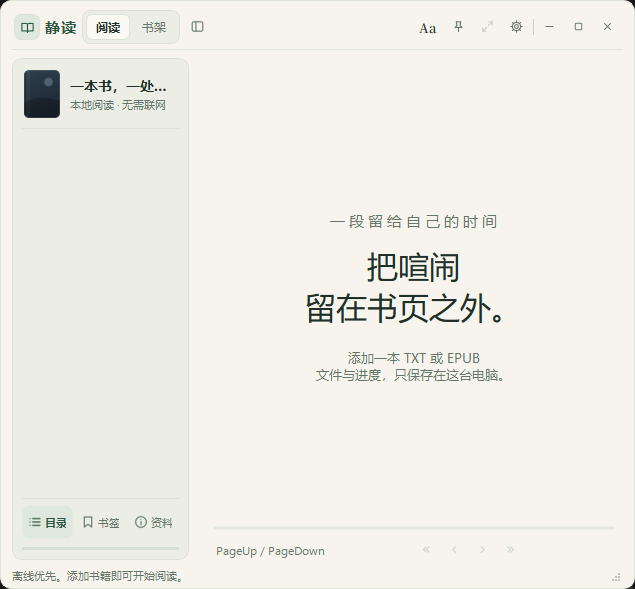
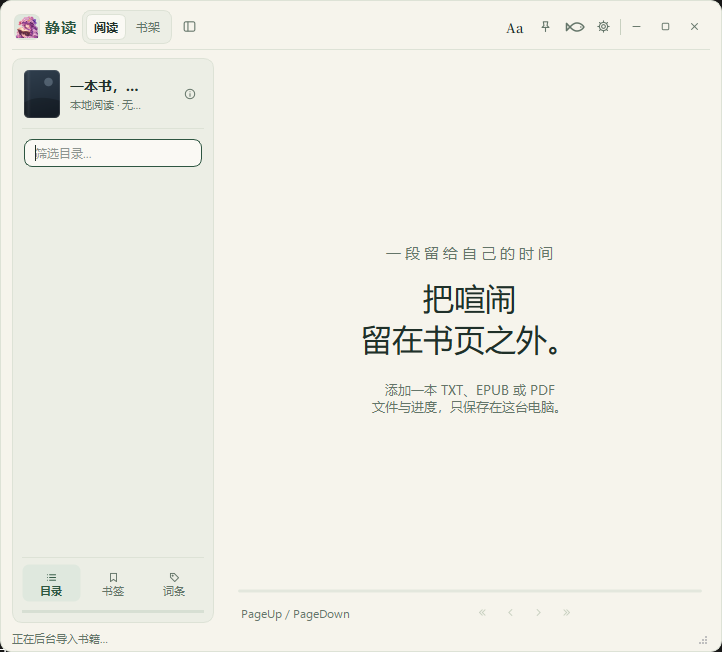
docs(readme): 更新功能截图与使用说明
为准备新版本发布，更新阅读页和专注浮层截图，并新增词条标注、全书搜索与摸鱼模式截图。同步修订中英文 README 的功能说明、使用步骤和 F8/F11/F7 快捷键表。截图统一放在 docs/screenshots，pending 源图保持不变。

diff --git a/README.en.md b/README.en.md
@@ -4,7 +4,7 @@
 
 <p align="center"><img src="src/quietreader/assets/quietreader.png" alt="QuietReader icon" width="128"></p>
 
-QuietReader is an offline-first desktop reader for Windows, built with Python and PySide6. It reads local TXT, EPUB, and PDF books and includes a bookshelf, navigation, bookmarks, live layout controls, and a distraction-free Focus mode. Books and reading progress stay on your computer.
+QuietReader is an offline-first desktop reader for Windows, built with Python and PySide6. It reads local TXT, EPUB, and PDF books and includes a bookshelf, navigation, bookmarks, term notes, book-wide search, live layout controls, Focus mode, and Moyu mode. Books and reading progress stay on your computer.
 
 ## Screenshots
 
@@ -18,6 +18,18 @@ Press `Ctrl+O` to choose a local TXT, EPUB, or PDF file, or drag a file into the
 
 Use the sidebar to switch between contents, bookmarks, and book info. Click the sidebar button in the top bar to collapse it. The progress bar at the bottom lets you seek within the current chapter. Whole-book progress appears to the right of the page controls. Reopening a book restores your last reading position.
 
+### Term notes
+
+![The term “电车” is marked in the text with its note visible, and the book’s terms are listed in the sidebar](docs/screenshots/term-notes.png)
+
+Select a word in the text, right-click, and choose **Add term note** to enter a note. You can also open **Terms** in the sidebar and click **Add**. Matching terms are marked in the text; hover over a marked term to read its note. Use the list to filter, edit, or delete notes. Double-click a term to search for it in the book, or import terms from another book.
+
+### Search within a book
+
+![The sidebar search panel showing snippets for “电车” and the current match position](docs/screenshots/book-search.png)
+
+Open **Search** in the sidebar and enter a keyword to search the whole book. Results include surrounding text. Use the arrows beside the search field or press `Enter` / `Shift+Enter` to move between matches. Click a result snippet to jump to it in the text; the active match is highlighted.
+
 ### Focus mode
 
 | Blend with the background | Hold `Alt` to adjust the window |
@@ -26,9 +38,15 @@ Use the sidebar to switch between contents, bookmarks, and book info. Click the 
 
 Use the desktop color picker under **Configuration → Focus & window** to sample a background color. You can also set the background opacity and text color there. Press `F10` to enter Focus mode and hide the reader controls. Hold the default adjustment key, `Alt`, to drag the window or resize it from an edge. Release the key to hide the outline, or press `Esc` to return to the regular reading view.
 
-![The Focus popover showing automatic edge-color sampling, trigger options, and opacity controls](docs/screenshots/focus-popover-auto-background.png)
+![The Focus popover showing automatic sampling, trigger options, an opacity cap, and the Moyu mode button](docs/screenshots/focus-popover-auto-background.png)
 
-The Focus popover can automatically sample the color around the window and shows the sampled color and trigger mode. For complex backgrounds, set an opacity cap. Slider values update during dragging, while the reading page updates once after release.
+The Focus popover can automatically sample the color around the window and shows the sampled color and trigger mode. Use **Desktop color picker** to select a color from the screen, or press `F8` to sample again immediately. Automatic sampling can run when entering Focus mode or moving the window, or only when triggered by its shortcut. For complex backgrounds, set an opacity cap. Slider values update during dragging, while the reading page updates once after release.
+
+### Moyu mode
+
+![Moyu mode reduces the book text to a one-line reading strip near the bottom of the screen](docs/screenshots/moyu-mode.png)
+
+Open a book, click the fish icon in the reading toolbar, then choose **Enter Moyu mode** in the popover. You can also toggle it with the default `F11` shortcut. Moyu mode reduces the text to a one-line strip that appears when the pointer approaches and hides after it leaves. Scroll, or press `PageDown` / `PageUp`, to move sentence by sentence. Hold the window adjustment key (default `Alt`) and drag the strip to place it near an IDE status bar. Press `F7` to switch between one and two lines. Right-click the strip to open a menu for moving to the previous or next sentence, switching line count, or exiting. Press `F11` again to exit. These shortcuts can be changed under **Configuration → Shortcuts**.
 
 ### Bookshelf
 
@@ -81,11 +99,12 @@ Click a binding to record a new shortcut. With global shortcuts enabled, you can
 - **EPUB reading** for common EPUB 2/3 reflowable books, including navigation, internal links, page lists, covers, metadata, text formatting, and embedded illustrations.
 - **PDF reading** that reflows extractable text and renders pages without extractable text as images for scanned PDFs.
 - **Local bookshelf** with recent books, all books, and custom categories. Adding a book copies it into the QuietReader library; moving it to a category moves that managed copy and leaves the original file untouched.
-- **Reading tools** including a table of contents, bookmarks and notes, book information, saved positions, and a collapsible sidebar.
+- **Reading tools** including a table of contents, bookmarks and notes, term notes, book-wide search, book information, saved positions, and a collapsible sidebar.
 - **Live typography controls** for font size, font family, line height, letter spacing, paragraph spacing, and page padding.
 - **Themes and languages** with system, paper, sepia, and night themes, plus Simplified Chinese, English, or the system language.
 - **Focus mode** hides reader controls and shows the book text, with configurable background opacity, desktop color sampling, text color, and always-on-top behavior. Hold the adjustment key to move or resize the window; only a fully transparent background is temporarily raised to 1% for mouse input, while other opacity levels remain unchanged.
-- **Keyboard controls** for paging, chapter navigation, Focus mode, window visibility, and emergency exit. Hold the configured adjustment key to move or resize the window in Focus mode.
+- **Moyu mode** reduces the book text to a reading strip that can appear and hide automatically, with sentence-by-sentence navigation and one-line / two-line layouts.
+- **Keyboard controls** for paging, chapter navigation, Focus and Moyu modes, window visibility, and emergency exit. Hold the configured adjustment key to move or resize the window in Focus mode.
 - **Offline by design**: no account or online book source is required; books, positions, and preferences stay local.
 
 ## Keyboard shortcuts
@@ -94,15 +113,17 @@ These are the defaults. Shortcuts can be changed in Configuration, except for a 
 
 | Action | Default |
 | --- | --- |
-| Next / previous page | `PageDown` / `PageUp` |
+| Next / previous page (sentence in Moyu mode) | `PageDown` / `PageUp` |
 | Next / previous chapter | `Ctrl+PageDown` / `Ctrl+PageUp` |
 | Toggle Focus mode / exit Focus mode | `F10` / `Esc` |
+| Resample the Focus mode background | `F8` |
 | Toggle Focus mode opacity (0% / 100%) | `F9` |
+| Toggle Moyu mode / switch one or two lines | `F11` / `F7` |
 | Add books / Configuration | `Ctrl+O` / `Ctrl+,` |
 | Show / hide the window | `Ctrl+Alt+R` |
 | Emergency exit | `Ctrl+Alt+Q` |
 
-Enable global shortcuts under Configuration → Shortcuts. While the window is visible, Show / Hide and Emergency Exit work even when another app is active. When the window is hidden or minimized, only Show / Hide remains active so you can bring the window back. The default Focus mode window adjustment key is `Alt`.
+Enable global shortcuts under Configuration → Shortcuts. While the window is visible, Show / Hide and Emergency Exit work even when another app is active. When the window is hidden or minimized, only Show / Hide remains active so you can bring the window back. The default Focus mode window adjustment key is `Alt`. Moyu mode shortcuts also remain active while its strip is automatically hidden.
 
 ## Download and run
 

diff --git a/README.md b/README.md
@@ -4,7 +4,7 @@
 
 <p align="center"><img src="src/quietreader/assets/quietreader.png" alt="QuietReader 图标" width="128"></p>
 
-QuietReader 是一款面向 Windows 的离线本地阅读器，使用 Python 与 PySide6 构建。它支持 TXT、EPUB 和 PDF，提供书架、目录、书签、排版调节和专注阅读；书籍与阅读进度保存在本机。
+QuietReader 是一款面向 Windows 的离线本地阅读器，使用 Python 与 PySide6 构建。它支持 TXT、EPUB 和 PDF，提供书架、目录、书签、词条标注、全书搜索、排版调节、专注模式和摸鱼模式；书籍与阅读进度保存在本机。
 
 ## 界面预览
 
@@ -18,6 +18,18 @@ QuietReader 是一款面向 Windows 的离线本地阅读器，使用 Python 与
 
 在左侧切换目录、书签和资料，点击上方的侧栏按钮可收起侧栏。底部进度条用于在当前章节内定位，翻页区右侧单独显示全书进度。重新打开书籍时会恢复上次的阅读位置。
 
+### 词条标注
+
+![正文中标记了“电车”词条并显示备注，左侧列出本书词条](docs/screenshots/term-notes.png)
+
+选中正文中的词语并右键选择「添加词条标注」，填写备注；也可打开左侧「词条」页并点击「添加」。正文中匹配到的词语会显示标记，鼠标移到标记上即可查看备注。在词条列表中可以筛选、编辑或删除标注，双击词条可在全书搜索，也可以从其他书籍继承词条。
+
+### 全书搜索
+
+![左侧搜索面板显示“电车”的匹配片段和当前结果位置](docs/screenshots/book-search.png)
+
+打开左侧「搜索」页并输入关键词，QuietReader 会搜索整本书并列出带上下文的结果片段。使用输入框旁的箭头或按 `Enter` / `Shift+Enter` 浏览匹配项；点击结果片段可跳到正文对应位置，当前匹配会高亮显示。
+
 ### 专注模式
 
 | 融入背景 | 按住 `Alt` 调整窗口 |
@@ -26,9 +38,15 @@ QuietReader 是一款面向 Windows 的离线本地阅读器，使用 Python 与
 
 在「配置 → 专注与窗口」使用「桌面取色」采样背景，也可自行设置背景不透明度和文字颜色。按 `F10` 进入专注模式后，阅读控件会隐藏。按住默认调整键 `Alt` 可拖动窗口或拖动边缘缩放，松开后窗口轮廓消失。按 `Esc` 返回普通阅读界面。
 
-![专注浮窗展示自动采样窗口外沿颜色、采样触发方式和背景不透明度上限](docs/screenshots/focus-popover-auto-background.png)
+![专注浮层展示自动采样、采样触发方式、背景不透明度上限和摸鱼模式入口](docs/screenshots/focus-popover-auto-background.png)
 
-专注浮窗可自动采样窗口外沿颜色，并显示采样结果与触发方式。复杂背景可限制不透明度上限；拖动滑块时数值会更新，松开鼠标后才应用到阅读页面，避免拖动过程中反复重排。
+专注浮层可自动采样窗口外沿颜色，并显示采样结果与触发方式。「桌面取色」可从屏幕点选颜色；按 `F8` 可立即重新采样。开启自动适配后，可选择进入专注模式或移动窗口后采样，也可只用快捷键手动采样。复杂背景可限制不透明度上限；拖动滑块时数值会更新，松开鼠标后才应用到阅读页面，避免拖动过程中反复重排。
+
+### 摸鱼模式
+
+![摸鱼模式将正文缩成贴近屏幕底部的一行阅读条](docs/screenshots/moyu-mode.png)
+
+先打开一本书，再点击阅读页顶部的鱼形按钮，在浮层中选择「进入摸鱼模式」；也可按默认快捷键 `F11` 切换。摸鱼模式把正文收成一行阅读条，默认鼠标靠近时显示、移开后自动隐藏。滚轮或 `PageDown` / `PageUp` 可逐句翻页；按住窗口调整键（默认为 `Alt`）拖动阅读条，可将它移到 IDE 状态栏附近。按 `F7` 可切换单行或两行显示；右键阅读条打开菜单，可翻上一句或下一句、切换行数或退出模式，再按 `F11` 也可退出。相关快捷键可在「配置 → 快捷键」中修改。
 
 ### 书架
 
@@ -81,11 +99,12 @@ QuietReader 是一款面向 Windows 的离线本地阅读器，使用 Python 与
 - **EPUB 阅读**：支持常见的 EPUB 2/3 重排版书籍、目录导航、书内链接、页码列表、封面、元数据、文字格式和内嵌插图。
 - **PDF 阅读**：逐页提取可读取的文字并按正文排版；没有可读取文字的页面会渲染为图像，适合扫描版 PDF。
 - **本地书架**：最近阅读、全部书籍与自建分类。添加书籍会复制到 QuietReader 的书架目录，分类时会移动书架内的副本，原始文件不受影响。
-- **阅读辅助**：目录、书签与笔记、书籍资料、阅读位置恢复、可折叠侧栏。
+- **阅读辅助**：目录、书签与笔记、词条标注、全书搜索、书籍资料、阅读位置恢复、可折叠侧栏。
 - **实时排版**：字号、字体、行距、字距、段距和页边距可在阅读界面中即时预览。
 - **外观和语言**：系统、纸白、暖纸、夜读主题；支持简体中文、English 或跟随系统语言。
 - **专注模式**：隐藏阅读界面控件，只保留书中文字；支持背景透明度、桌面取色、文字颜色与窗口置顶。按住调整键可移动或缩放窗口；只有背景为 0% 时才临时提高到 1% 以接收鼠标操作，已有的非零透明度保持不变。
-- **键盘操作**：翻页、切换章节、进入专注模式、显示/隐藏窗口和紧急退出均可配置。专注模式中可按住调整键移动或缩放窗口。
+- **摸鱼模式**：将正文缩成可自动显隐的阅读条，支持逐句翻页、单行/两行切换和快捷键操作。
+- **键盘操作**：翻页、切换章节、进入专注模式、摸鱼模式、显示/隐藏窗口和紧急退出等按键均可配置。专注模式中可按住调整键移动或缩放窗口。
 - **离线优先**：不需要账户或在线书源；书籍、阅读位置和偏好都保存在本机。
 
 ## 快捷键
@@ -94,15 +113,17 @@ QuietReader 是一款面向 Windows 的离线本地阅读器，使用 Python 与
 
 | 操作 | 默认快捷键 |
 | --- | --- |
-| 下一页 / 上一页 | `PageDown` / `PageUp` |
+| 下一页 / 上一页（摸鱼模式中逐句翻页） | `PageDown` / `PageUp` |
 | 下一章 / 上一章 | `Ctrl+PageDown` / `Ctrl+PageUp` |
 | 切换专注模式 / 退出专注模式 | `F10` / `Esc` |
+| 重新采样专注模式背景色 | `F8` |
 | 专注模式透明度切换（0% / 100%） | `F9` |
+| 切换摸鱼模式 / 单行两行显示 | `F11` / `F7` |
 | 添加书籍 / 配置 | `Ctrl+O` / `Ctrl+,` |
 | 显示 / 隐藏窗口 | `Ctrl+Alt+R` |
 | 紧急退出 | `Ctrl+Alt+Q` |
 
-在「配置 → 快捷键」开启全局快捷键后，只要窗口仍显示，即使正在使用其他应用，也能触发显示/隐藏或紧急退出。窗口隐藏或最小化后，只有显示/隐藏快捷键仍然生效，可用它唤回窗口。专注模式的窗口调整键默认为 `Alt`。
+在「配置 → 快捷键」开启全局快捷键后，只要窗口仍显示，即使正在使用其他应用，也能触发显示/隐藏或紧急退出。窗口隐藏或最小化后，只有显示/隐藏快捷键仍然生效，可用它唤回窗口。专注模式的窗口调整键默认为 `Alt`；摸鱼模式开启时，其模式和翻句快捷键在阅读条自动隐藏后仍可使用。
 
 ## 获取与运行
 
